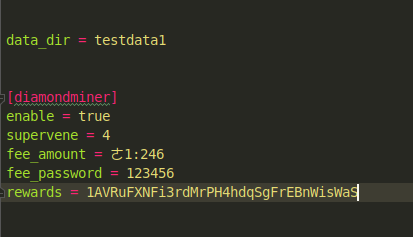
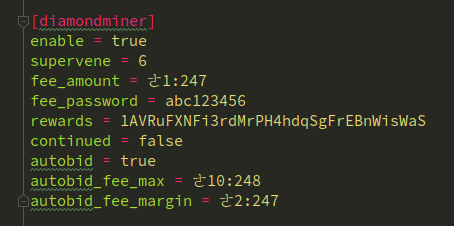
diamond auto bid

Changed region(s): [[0.0, 0.3097, 0.9588, 0.9292], [0.0, 0.0619, 0.4068, 0.2168], [0.0581, 0.2478, 0.3196, 0.3097]]

diff --git a/index_zh.html b/index_zh.html
@@ -375,17 +375,18 @@
         <div class="pagecard">
             <h1 class="pgtt">四、挖掘区块钻石</h1>
             <p class="p">区块钻石是 Hacash 网络上另一种异质 、不可分割的货币。其详细介绍可参看：<a class="dld" target="_blank" href="https://github.com/hacash/paper/blob/master/draft/whitepaper.cn.md#5-%E5%8C%BA%E5%9D%97%E9%92%BB%E7%9F%B3">什么是区块钻石</a>和<a class="dld" target="_blank" href="https://github.com/hacash/paper/blob/master/draft/whitepaper.cn.md#3-%E9%92%BB%E7%9F%B3%E9%87%87%E6%8E%98">钻石采掘算法</a>。</p>
-            <p class="p">区块钻石的采掘目前只能通过全节点 SOLO 挖矿的形式产生，通过部署 <a href="#minernode">全节点挖矿</a> 并同步完所有区块数据之后，将配置文件修改至如下：</p>
+            <p class="p">区块钻石的采掘目前只能通过全节点 SOLO 挖矿的形式产生，通过部署 <a href="#minernode">全节点挖矿</a> 并同步完所有区块数据之后，将配置文件的<span class="val">[diamondminer]</span>部分修改至如下：</p>
             <p class="p">
                 <img class="cutwrap lazy" data-src="/image/tobeminer/diamond_miner_config_ini.png" />
             </p>
-            <p class="p">其中<span class="val">supervene</span>是多线程并行挖矿的并发线程数量，与挖HAC币的supervene参数意义相同；<span class="val">fee_amount</span>参数是为挖掘出的钻石设置的默认手续费竞价的数量，如果一个区块内同时挖出多枚钻石，则手续费报价最高的钻石将被打包进区块被全网确认生效，同时期的其他钻石将被视为无效并丢弃，大家重新再次从头开始挖掘下一枚钻石；<span class="val">fee_password</span>是付出手续费竞价的账户地址的密码或私钥（必须确保账户内拥有fee_amount设置的余额，挖掘出的钻石才能被打包生效）；<span class="val">rewards</span>参数设置的地址为挖出钻石后的奖励地址，也就是新挖出钻石的归属地址。</p>
+            <p class="p">其中<span class="val">supervene</span>是多线程并行挖矿的并发线程数量，与挖HAC币的supervene参数意义相同；<span class="val">fee_amount</span>参数是为挖掘出的钻石设置的默认手续费竞价的数量，如果一个区块内同时挖出多枚钻石，则手续费报价最高的钻石将被打包进区块被全网确认生效，同时期的其他钻石将被视为无效并丢弃，大家重新再次从头开始挖掘下一枚钻石；<span class="val">fee_password</span>是付出手续费竞价的账户地址的密码或私钥（必须确保账户内拥有fee_amount设置的余额，挖掘出的钻石才能被打包生效）；<span class="val">rewards</span>参数设置的地址为挖出钻石后的奖励地址，也就是新挖出钻石的归属地址。 <span class="val">continued</span>表示是否在挖出一枚钻石后仍然持续挖掘钻石，这将会导致可能在一个周期内挖出多枚钻石，你可以从中选择你认为更有价值的钻石来出局更高的报价。</p>
             <p class="p">通过<a class="dld" target="_blank" href="http://block.hacash.org/">区块浏览器</a>可以实时查看当前周期内挖出的所有钻石的手续费竞价排名。【注意：一个周期（5个区块）只有手续费排名的第一位的唯一一枚钻石将被打包生效，其他钻石将被直接丢弃】。如果需要将排名提升至第一位，则可在<a class="dld" target="_blank" href="https://wallet.hacash.org/">在线钱包</a>里重新设置对应钻石的手续费。（钻石挖矿的结果是一笔特殊的交易被打包进能被5整除的区块高度内，钻石挖掘后排名的手续费就是一笔交易的手续费）</p>
             <p class="p">启动挖掘钻石的程序后，显示应如下：</p>
             <p class="p">
                 <img class="cutwrap lazy" data-src="/image/tobeminer/diamond_mining_status.png" />
             </p>
-
+            <p class="p">通过设置<span class="val">autobid = true</span>参数可以进行挖出钻石的程序自动竞价。其中<span class="val">fee_amount = ㄜ1:247</span>表示挖出钻石的第一次报价，然后每隔十秒钟，程序自动检查一次当前最高报价的钻石出价，如果报价高于我的报价，则通过参数<span class="val">autobid_fee_margin = ㄜ2:247</span>为报价步进值，自动出具高于最高钻石报价的价格，以始终保持自己挖出的钻石报价最高。参数<span class="val">autobid_fee_max = ㄜ10:248</span>为我将为每一枚钻石出具的竞价上限，表示如果其他人竞价超过这个价格，我将停止竞价，而不会报出比这个数值更高的价格。</p>
+            <p class="p">【特别注意】自动竞价并不保证绝对能让你获得钻石，比如出现一下这些情况：1. 在周期的末尾很晚才挖出钻石，来不及第一次报价，其他当前最高报价的钻石就已经打包进区块；2. 刚好在十秒自动报价的间隙，别人的钻石被打包； 3. 网络同步卡顿导致你的程序没有获取到别人的报价。如果你想要最大可能获得钻石，请尽量优化以下内容：1. 升级到更稳定（链路更优质但不需要带宽更大）的网络；2. 尽量出具更高的首次报价和竞价步进值，以便于在很少的几次报价之后就超越别人设置的竞价最高值，从而打败别人。3. 请不要设置过于小的报价步进值（'autobid_fee_margin' 参数），过于小的手续费更改将低于系统可以识别的精度，从而不能改变你的竞价排序。</p>
 
 
         </div>

diff --git a/index.html b/index.html
@@ -409,7 +409,7 @@
             <p class="p">
                 <img class="cutwrap lazy" data-src="/image/tobeminer/diamond_miner_config_ini.png" />
             </p>
-            <p class="p">Configuration <span class="val">supervene</span> is the number of concurrent threads for multi-threaded parallel mining, which has the same meaning as the supervene parameter for HAC coin mining; <span class="val" The >fee_amount</span> parameter is the default fee bid amount set for the mined diamonds. If multiple diamonds are mined in a block at the same time, the diamond with the highest fee price will be packaged into the block and the whole network If the confirmation is valid, other diamonds in the same period will be considered invalid and discarded. Everyone starts to mine the next diamond from the beginning; <span class="val">fee_password</span> is the password of the account address that paid the fee for bidding Or private key (must ensure that the account has the balance set by fee_amount, so that the mined diamonds can be packaged into effect); the address set by the <span class="val">rewards</span> parameter is the reward address after the diamond is mined. That is, the attribution address of the newly mined diamond. </p>
+            <p class="p">Configuration <span class="val">supervene</span> is the number of concurrent threads for multi-threaded parallel mining, which has the same meaning as the supervene parameter for HAC coin mining; <span class="val" The >fee_amount</span> parameter is the default fee bid amount set for the mined diamonds. If multiple diamonds are mined in a block at the same time, the diamond with the highest fee price will be packaged into the block and the whole network If the confirmation is valid, other diamonds in the same period will be considered invalid and discarded. Everyone starts to mine the next diamond from the beginning; <span class="val">fee_password</span> is the password of the account address that paid the fee for bidding Or private key (must ensure that the account has the balance set by fee_amount, so that the mined diamonds can be packaged into effect); the address set by the <span class="val">rewards</span> parameter is the reward address after the diamond is mined. That is, the attribution address of the newly mined diamond. <span class="val">continued</span> means whether to mined a diamond after mined out a diamond. This will lead to the possibility of mined out more than one diamond in a cycle. You can choose the diamond you think is more valuable to make a higher bid.</p>
 
             <p class="p">Through the <a class="dld" target="_blank" href="http://block.hacash.org/">block explorer</a> you can view the current cycle in real time The bidding ranking of all the diamonds unearthed. [Note: In a period (5 blocks), only the only diamond ranked first in the handling fee will be packaged, and other diamonds will be directly discarded]. If you need to increase the ranking to the first place, you can reset the corresponding in <a class="dld" target="_blank" href="https://wallet.hacash.org/">online wallet</a> Diamond handling fee. (The result of diamond mining is that a special transaction is packed into a block height that can be divisible by 5. The transaction fee for ranking after diamond mining is the transaction fee)</p>
 
@@ -418,6 +418,9 @@
                 <img class="cutwrap lazy" data-src="/image/tobeminer/diamond_mining_status.png" />
             </p>
 
+            <p class="p">By setting the parameter of <span class="val">autobid = true</span>, the program of digging out diamonds can be bid automatically. Among them, <span class="val">fee_ amount = ㄜ1:247</span> means the first bid for digging out diamonds. Then, every 10 seconds, the program automatically checks the diamond bid of the current highest bid. If the bid is higher than my bid, the parameter autobid will be used <span class="val">autobid_fee_margin = ㄜ 2:247</span> is the step value of bid, and the price higher than the highest diamond bid will be automatically issued, so as to keep the highest bid of diamond excavated by oneself. Parameter <span class="val">autobid_fee_max = ㄜ 10:248</span> is the upper limit that I will issue for each diamond, which means that if other people bid more than this price, I will stop bidding and will not quote a higher price.</p>
+
+            <p class="p">[special attention] automatic bidding does not guarantee that you will get diamonds. For example, the following situations occur: 1. Diamonds are mined out late at the end of the cycle, and other diamonds with the highest current price have already been packed into the block before the first bid; 2. The diamonds of others are packed just in the interval of 10 seconds' automatic bid; 3 Network synchronization is stuck and your program doesn't get other people's bid. If you want to get the diamond as much as possible, please try to optimize the following contents: 1. Upgrade to a more stable network (with better links but not more bandwidth); 2. Issue higher initial bid and bidding step value as much as possible, so as to surpass the highest bidding value set by others after a few automatic bidding, so as to defeat others. 3.Please do not set too small step value of bid (autobid_fee_margin), If the bid change is too small, it will be lower than the accuracy that can be recognized by the system, so you can't change your bidding order.</p>
 
 
         </div>
